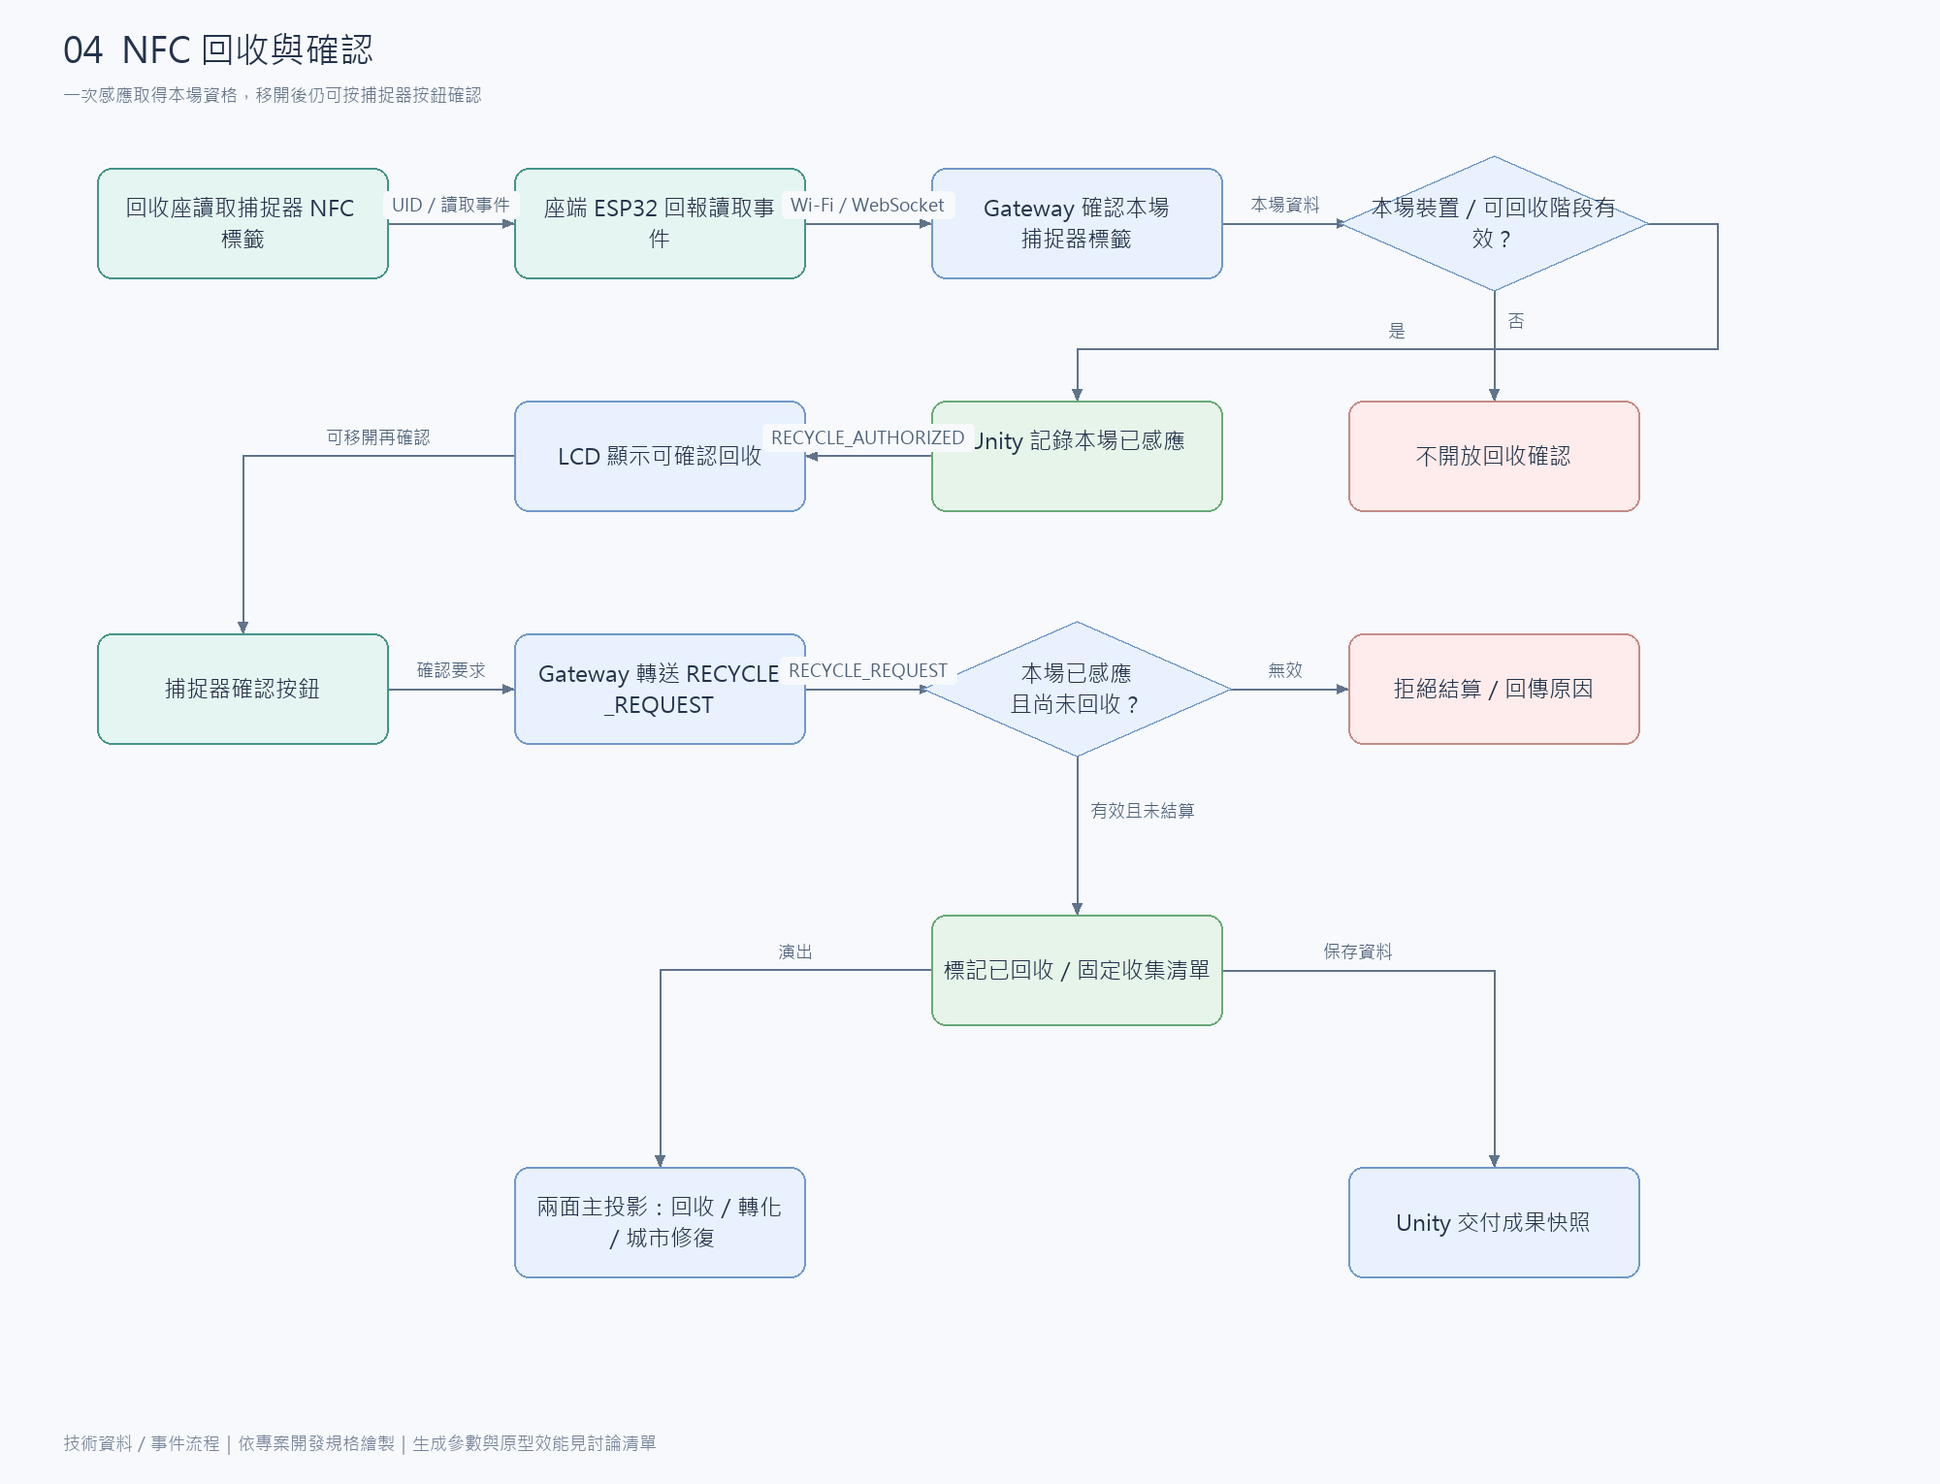
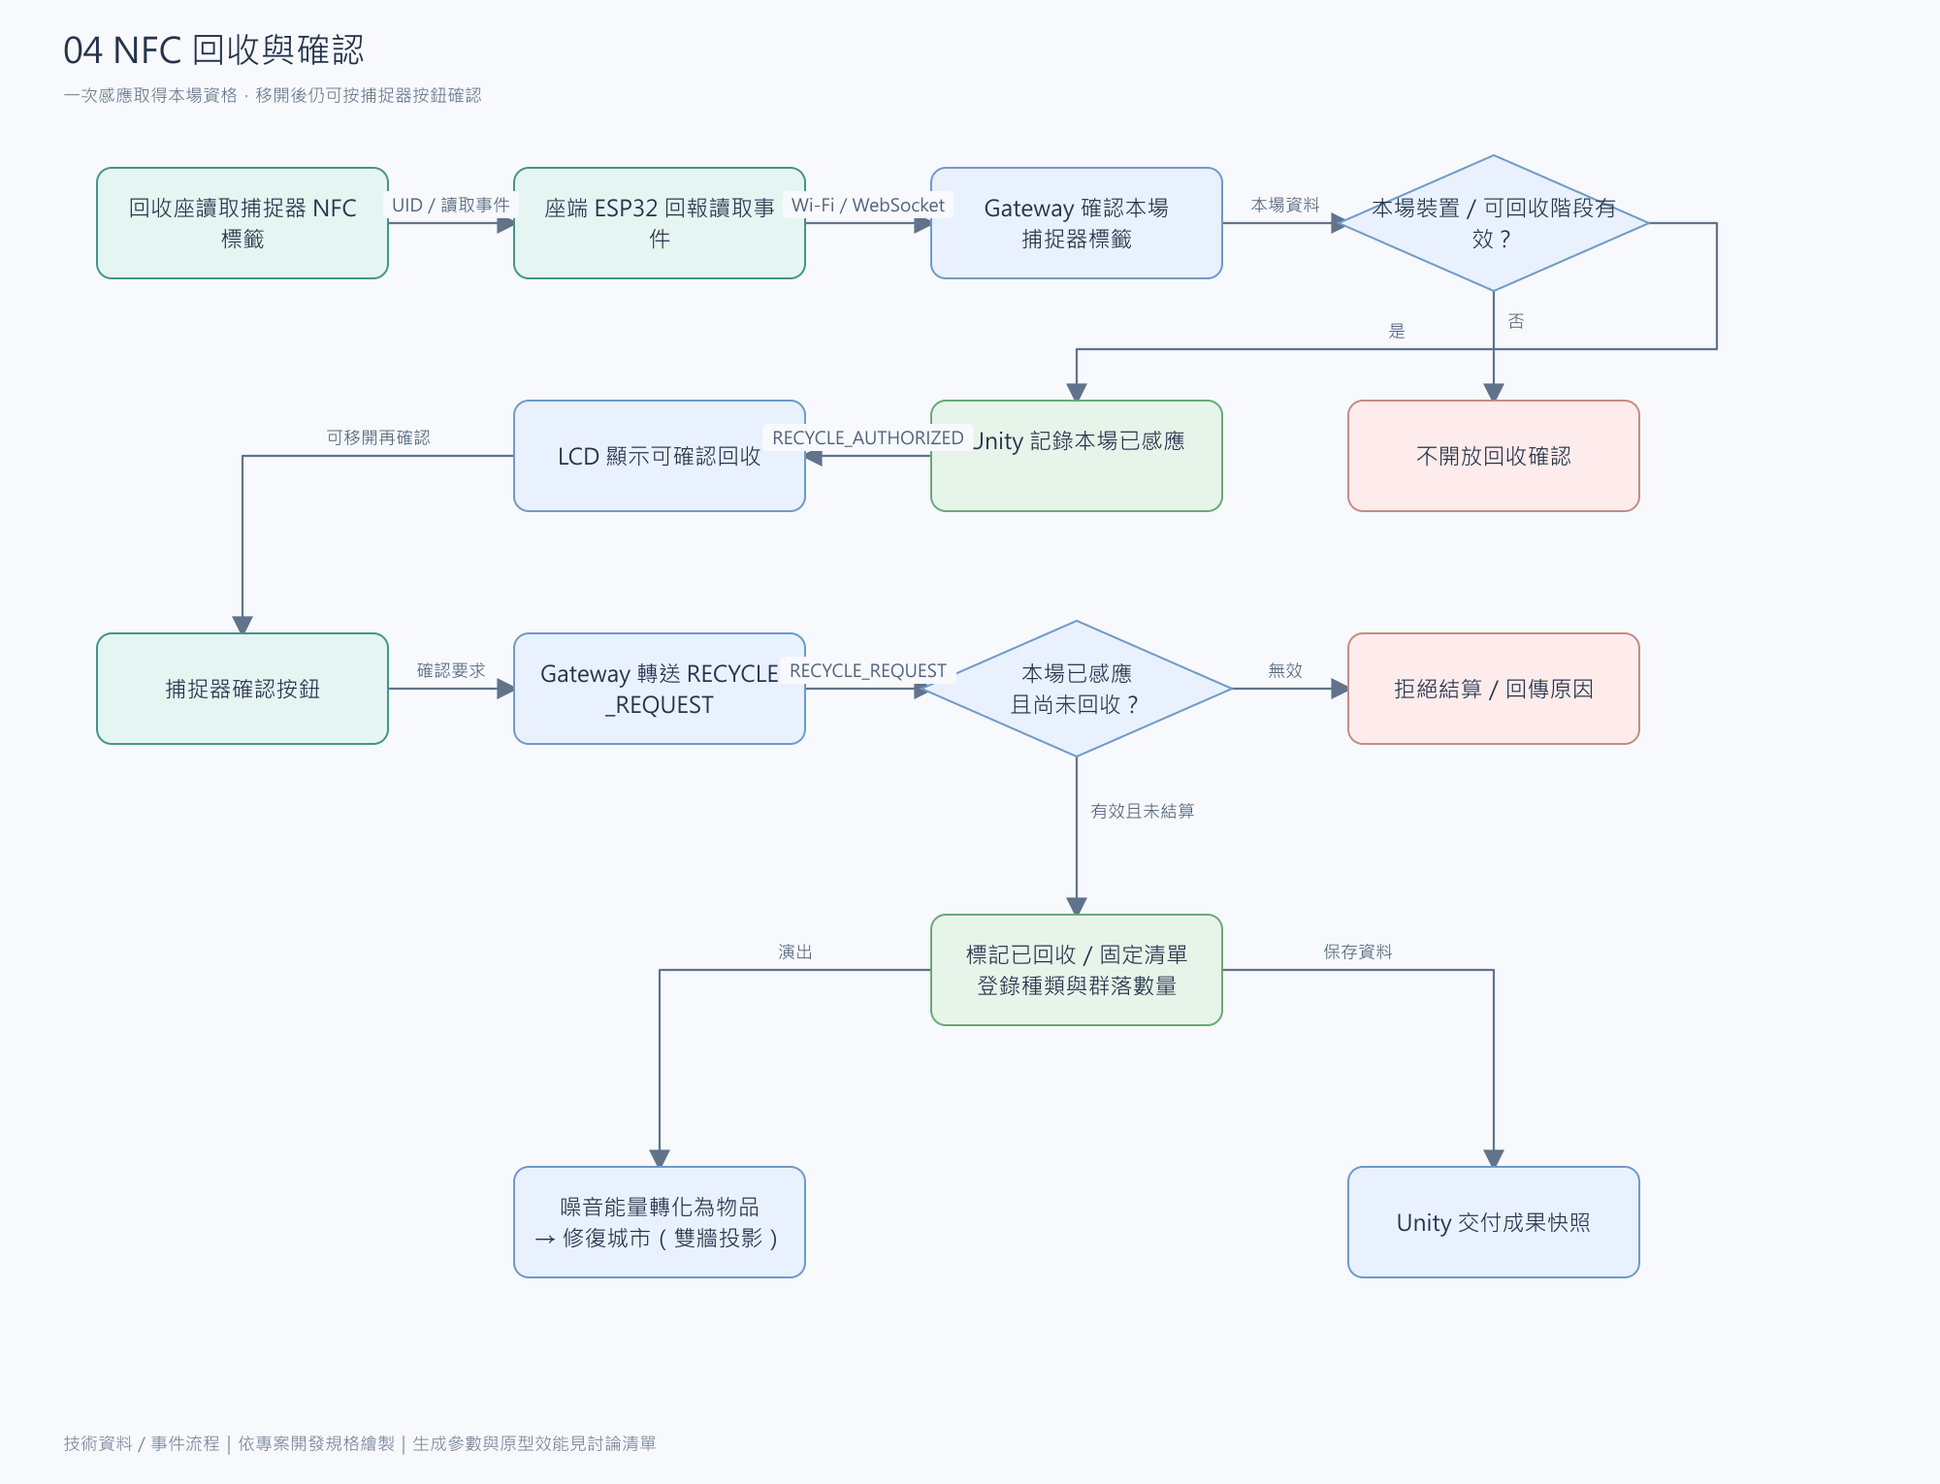
docs: 更新韌體平台

diff --git a/docs/技術架構.md b/docs/技術架構.md
@@ -2,7 +2,7 @@
 
 日期：2026-11-01
 
-版本：v1.16
+版本：v1.18
 
 用途：供組員了解作品運作方式、軟硬體分工與交付內容。本文件描述規劃架構，不代表已完成實作。
 
@@ -16,7 +16,7 @@
 
 音虫在固定點附近的小範圍快速、不規則亂動；每點附近設一顆固定紅外線發射燈。群落出現時啟用該燈，消失時停用。各燈用不同的亮暗節奏表示點位，供捕捉器辨識；投影音虫不跟著這個節奏閃爍。捕捉成功後整群消失、SAN 扣一次；音響播放代表捕捉器產生的噪音，由此促成新音虫誕生。
 
-NFC 感應成功後，系統記住本場已感應，保留到回收或本場結束；觀眾可移開捕捉器，再按其確認按鈕完成回收，由兩面主投影呈現回收、轉化與城市修復。每位完成體驗的觀眾取得線上紀念品，包含感謝信、收集摘要與個人旋律，離場後仍可開啟。
+NFC 感應成功後，系統記住本場已感應，保留到回收或本場結束；觀眾可移開捕捉器，再按其確認按鈕完成回收。系統登錄收集的種類與群落數量，由 Unity 將噪音能量轉化為物品、用於修復城市，並在兩面主投影呈現。每位完成體驗的觀眾取得線上紀念品，包含感謝信、收集摘要與個人旋律，離場後仍可開啟。
 
 ## 2. 系統連接架構
 
@@ -29,7 +29,7 @@ Unity → 本機串接服務 → 固定燈控板 → 各點紅外線燈
 
 現場麥克風 → 音訊介面 → Unity 分析 → 既有音虫擾動
 捕捉成功 → Unity 捕捉噪音事件 → 音響播放／新音虫生成控制
-捕捉器確認按鈕 → Wi-Fi／Gateway → 回收確認事件 → Unity 檢查本場已感應／可回收階段 → 結算及演出
+捕捉器確認按鈕 → Wi-Fi／Gateway → 回收確認事件 → Unity 檢查本場已感應／可回收階段 → 登錄種類／群落數量 → 能量轉化為物品 → 修復城市（雙牆投影）
 Unity 成果 → Gateway 保存／上傳 → 雲端資料與音樂素材 → Next.js 線上紀念品網頁
 ```
 
@@ -42,7 +42,7 @@ Unity 成果 → Gateway 保存／上傳 → 雲端資料與音樂素材 → Nex
 | 軟體／技術 | 用途 |
 | --- | --- |
 | Unity、C# | 音虫、捕捉、SAN、雙投影、聲音、回收與城市修復 |
-| ESP32 韌體、相機驅動 | 紅外線光點讀取、點位辨識、LCD、回收確認按鈕、震動與音效 |
+| PlatformIO、C/C++ | 開發、編譯與燒錄捕捉器、固定燈控板及 NFC 回收座韌體；整合相機、LCD、按鈕、震動與音效 |
 | 固定燈控韌體 | 輸出各點紅外線識別編碼，控制啟用／停用並回報執行狀態 |
 | Node.js、WebSocket | 本機串接服務、裝置雙向通訊、場次與成果同步 |
 | Next.js、React、TypeScript | 線上紀念品、成果 API 與本機管理頁 |
@@ -61,7 +61,7 @@ Unity 成果 → Gateway 保存／上傳 → 雲端資料與音樂素材 → Nex
 | --- | --- |
 | Windows 主機、獨顯及管理螢幕 | 執行 Unity、Gateway、音訊與管理介面 |
 | 兩面主投影、幕面與支架 | 城市場景、音虫及回收／轉化／城市修復演出 |
-| 無線捕捉器（2～3 支輪替，每場啟用 1 支） | 主板／LCD 以 Sunton 4827S043 系列、紅外線相機以 PAJ7025R3 作原型候選；搭配回收確認按鈕、震動、聲音與電池 |
+| 無線捕捉器（2～3 支輪替，每場啟用 1 支） | 主板／LCD 以 Sunton 4827S043 系列、紅外線相機以 PAJ7025R3 作原型候選；搭配回收確認按鈕、震動、聲音與內建充電電池；行動電源僅作充電來源 |
 | 各點紅外線燈、驅動及固定燈控板 | 對應音虫出現點的光學訊號 |
 | NFC 回收座 | 捕捉器貼被動式標籤，座端讀取器與 ESP32 回報感應；演出由兩面主投影呈現 |
 | 分享器、主機有線網路及外網 | 本地互動與雲端成果同步 |
@@ -85,7 +85,7 @@ Unity 成果 → Gateway 保存／上傳 → 雲端資料與音樂素材 → Nex
 | 聆聽與發聲 | 預製城市聲音引導探索；麥克風經音訊介面送入 Unity，分析音量與持續時間，觸發既有音虫在固定小範圍內的擾動 |
 | 捕捉回饋 | 成功後整群收走、扣一次 SAN 並震動；音響播放代表捕捉器產生的噪音，該事件促使新音虫誕生 |
 | NFC 到站 | 座端讀取捕捉器標籤，經 ESP32、Gateway 傳給 Unity，記錄本場已感應；移開後仍保留，到本場回收或結束時清除 |
-| 回收與修復 | 感應後可移開，再按捕捉器確認按鈕；Unity 檢查已感應且尚未回收，結算後標記已回收，並由兩面主投影播放回收、轉化與城市修復 |
+| 回收與修復 | 感應後可移開，再按捕捉器確認按鈕；Unity 檢查已感應且尚未回收，結算後標記已回收、登錄種類與群落數量；Unity 控制噪音能量轉化為物品、修復城市，並由兩面主投影呈現 |
 | 線上紀念品 | Next.js 顯示感謝信、收集摘要與個人旋律，成果連結可離場重開 |
 | 實體列印（選配） | 列印紀念品及同一成果 QR Code，線上成果不依賴列印設備 |
 
@@ -97,7 +97,7 @@ Unity 成果 → Gateway 保存／上傳 → 雲端資料與音樂素材 → Nex
 
 | 項目 | 交付內容 |
 | --- | --- |
-| 城市與雙牆畫面 | 各牆比例、場景、接縫與固定出現點 |
+| 城市與雙牆畫面 | 各牆比例、場景、接縫、固定出現點，以及能量轉化物品與城市修復動畫 |
 | 音虫 | 種類、群落外觀、固定小範圍內快速不規則運動、出現／消失及捕捉動畫 |
 | 實體安裝 | 發射燈固定、走線、捕捉器外殼與 NFC 感應位置 |
 | 捕捉器 UI | SAN、搜尋、鎖定、捕捉進度、成功、失效、電量及回收確認提示 |

diff --git a/docs/器材清單.md b/docs/器材清單.md
@@ -29,7 +29,7 @@
 
 ## 2. 無線捕捉器
 
-以下數量為**一支原型**，不另外重複購買整套捕捉器。
+以下數量為**一支原型**，不另外重複購買整套捕捉器。捕捉器、固定燈控板及 NFC 回收座均以 PlatformIO 開發韌體。
 
 | 器材／候選型號 | 原型數量 | 用途／配置 | 參考單價 | 台灣來源／資訊 |
 | --- | --- | --- | --- | --- |
@@ -40,12 +40,13 @@
 | 1030 扁平震動馬達 | 1 個 | 搭配驅動板，不由 GPIO 直接供電 | NT$19 | [樂意創客商品](https://shopee.tw/product/139069730/2596961902)，附發票 |
 | MAX98357 I²S 音訊放大模組 | 1 片 | 裝置操作提示音輸出 | NT$140 | [樂意創客商品](https://shopee.tw/product/139069730/16267784032)，附發票 |
 | 小型喇叭，8 Ω／1 W 為候選規格 | 1 個 | 與音訊放大板搭配，限制輸出功率 | — | [樂意創客賣場搜尋](https://shopee.tw/mirotek?keyword=喇叭) |
-| Xiaomi 自帶線行動電源 10000 口袋版，P15ZM | 1 個 | 原型透過 USB 供電，隨捕捉器攜帶 | NT$549（官網列表標價） | [小米台灣商品](https://www.mi.com/tw/product/xiaomi-power-bank-10000mah-integrated-cable/)，依結帳頁填寫發票資訊 |
+| 內建充電電池 | 1 組 | 供捕捉器離線纜使用，依整機耗電與外殼空間選容量及尺寸 | — | 電池選型見[待確認與驗證清單](待確認與驗證清單.md) |
+| 電池充電、保護及電源轉換電路 | 1 組 | 為內建電池充電，並提供主板及各模組所需電壓；主板已整合的功能不重複計價 | — | 依電池與主板選型配置 |
 | 被動式 NFC 貼紙，NTAG213 為候選 | 1 枚 | 貼在捕捉器，標籤 UID 對應設備編號，不需供電 | — | [樂意創客賣場搜尋](https://shopee.tw/mirotek?keyword=NFC)：另列用量，不假設 PN532 套件附送貼紙 |
 | 相機轉接板、接頭及內部配線 | 1 組 | 連接相機、按鈕、震動、音效與電源 | — | 依最終接腳配置製作；線材見第 5 部分 |
 | 外殼、相機固定件與握持結構 | 1 組 | 固定鏡頭方向、LCD、按鈕與標籤，保留維修空間 | — | 自製／3D 列印 |
 
-主板與 LCD 合併計價；4827／480×272 與其他 4.3 吋 800×480 商品不是同一板型。上表先採 USB 行動電源，內建鋰電池方案不重複計入。故事中的「捕捉器噪音」由展場音響播放，與裝置提示音分開。
+主板與 LCD 合併計價；4827／480×272 與其他 4.3 吋 800×480 商品不是同一板型。捕捉器採內建充電電池，行動電源僅於充電時接上，不納入機身。故事中的「捕捉器噪音」由展場音響播放，與裝置提示音分開。
 
 ## 3. 固定紅外線發射與燈控
 
@@ -68,7 +69,7 @@
 | 固定 USB 供電、接頭及配線 | 1 組 | 供應讀取器及控制板 | — | 配合模組接頭配置 |
 | 回收座外殼及感應面標示 | 1 組 | 引導捕捉器靠近，保留天線與維修空間 | — | 自製／3D 列印 |
 
-燈控板與回收座各一片 XIAO，合計 **2 片**。捕捉器 NFC 標籤已列於第 2 部分，不重複計價。感應一次後可移開，再按捕捉器確認按鈕回收；資格保留至本場回收或結束。回收、轉化及城市修復由兩面主投影呈現。
+燈控板與回收座各一片 XIAO，合計 **2 片**。捕捉器 NFC 標籤已列於第 2 部分，不重複計價。感應一次後可移開，再按捕捉器確認按鈕回收；資格保留至本場回收或結束。回收時由系統登錄種類與群落數量，Unity 控制噪音能量轉化為物品、修復城市，由兩面主投影呈現。
 
 ## 5. 聲音、電源與共用製作工具
 
@@ -77,6 +78,7 @@
 | 麥克風與固定架 | 依收音配置 | 收觀眾聲音，送入 Unity 擾動既有音虫 | — | 先盤點現有／可借設備 |
 | 音訊介面 | 1 組 | 輸入／輸出數配合麥克風與現場播放設備 | — | 先盤點現有／可借設備 |
 | 現場喇叭、功放及音訊線 | 依聲場配置 | 播放城市聲音、互動回饋與捕捉器噪音 | — | 先盤點現有／可借設備 |
+| Xiaomi 自帶線行動電源 10000 口袋版，P15ZM | 共用選配 1 個 | 作 USB 充電來源，不裝入捕捉器，可使用既有充電器替代 | NT$549（官網列表標價） | [小米台灣商品](https://www.mi.com/tw/product/xiaomi-power-bank-10000mah-integrated-cable/) |
 | USB 傳輸／燒錄線與充電器 | 原型配合 3 片控制板 | 燒錄、燈控通訊及充電，使用可傳資料的線材 | — | [環島科技賣場搜尋](https://shopee.tw/angel__wei?keyword=USB) |
 | 400 孔麵包板 | 先備 3 片 | 捕捉器、燈控與回收座桌面接線測試 | NT$40 | [樂意創客商品](https://shopee.tw/product/139069730/2122942751) |
 | 杜邦線 10 條裝，公公／公母／母母 | 各 1 包，共 3 包 | 短距離原型接線；牆面延伸線另配 | NT$10 起／包 | [樂意創客商品](https://shopee.tw/product/139069730/2119543348)，不同長度／接頭依選項價格 |

diff --git a/docs/技術流程圖.md b/docs/技術流程圖.md
@@ -66,7 +66,7 @@ flowchart LR
 
 </details>
 
-捕捉器方塊包含紅外線接收相機與韌體；Sunton 4827S043 系列為主板／LCD 的原型候選。圖中的 NFC 回收座經讀取器取得捕捉器被動式標籤，並非遠距定位音虫。
+捕捉器方塊包含紅外線接收相機與韌體；Sunton 4827S043 系列為主板／LCD 的原型候選。圖中的 NFC 回收座經讀取器取得捕捉器被動式標籤，並非遠距定位音虫。捕捉器、燈控板與回收座韌體均以 PlatformIO 開發。
 
 ## 2. 自動捕捉判定
 
@@ -166,7 +166,7 @@ flowchart LR
 
 ## 4. NFC 回收與確認
 
-從左上讀取 NFC 標籤開始，Unity 記錄本場已感應，LCD 提示可按確認；往下接捕捉器按鈕送出的 RECYCLE_REQUEST（回收確認要求），檢查通過後才結算。NFC 感應本身不會立即回收。
+從左上讀取 NFC 標籤開始，Unity 記錄本場已感應，LCD 提示可按確認；往下接捕捉器按鈕送出的 RECYCLE_REQUEST（回收確認要求），檢查通過後才結算、登錄種類與群落數量，再由 Unity 控制能量轉化為物品及城市修復，呈現於兩面主投影。NFC 感應本身不會立即回收。
 
 ![NFC 回收與確認](assets/技術流程圖/04.png)
 
@@ -188,8 +188,8 @@ flowchart LR
   recycleRequest["Gateway 轉送 RECYCLE_REQUEST"]
   validateAuthorization{"本場已感應且尚未回收？"}
   rejectRequest["拒絕結算／回傳原因"]
-  commitRecycle["標記已回收／固定收集清單"]
-  repairDisplay["兩面主投影：回收／轉化／城市修復"]
+  commitRecycle["標記已回收／登錄種類與群落數量"]
+  repairDisplay["能量轉化為物品 → 修復城市（雙牆投影）"]
   resultSnapshot["Unity 交付成果快照"]
   tagRead --> seatReport --> deviceMap --> checkPresence
   checkPresence -->|"否"| rejectRead

diff --git a/docs/待確認與驗證清單.md b/docs/待確認與驗證清單.md
@@ -24,11 +24,11 @@
 - [ ] 捕捉器的畫面設計、頁面切換與選單操作如何安排？
 - [ ] 除 SAN 與捕捉進度，是否需要收藏總覽、音虫詳細卡片？
 - [ ] **板卡驗證：**以 ESP32-4827S043C 為候選，核對尺寸、剩餘接腳及顯示驅動；確認 PAJ7025R3 樣品所需轉接板、供電與訊號電壓，驗證相機、回收按鈕、I²C 震動驅動及 I²S 音效能否同時運作，再定外殼；確認指定主板與相機的台灣供貨。
-- [ ] **續航與供電測試：**整機能否達約 2 小時目標？驗證行動電源持續輸出；若改內建電池，確認升壓板輸出電壓與峰值電流符合主板、相機及音效需求，再決定電池、備機與充電輪替。
+- [ ] **續航與機構測試：**內建電池的容量、尺寸及固定方式為何？確認充電、保護及電源轉換電路符合主板、相機及音效的電壓／峰值電流需求，檢查充電溫升與接線空間，並測試整機能否達約 2 小時目標，再決定備機與充電輪替。
 
 ## 4. 回收與紀念品
 
-- [ ] 回收、轉化與城市修復的具體畫面、音效及演出時長？
+- [ ] 依收集種類／群落數量，噪音能量會轉成哪些物品、物品如何對應城市修復？具體動畫、音效與演出時長為何？
 - [ ] 各音虫聲部的實際音色、素材與組合效果如何設計？同種類重複捕捉是否影響旋律編排？
 - [ ] 成果 QR 顯示在哪裡、停留多久？長期保存所需的服務預算、保存政策及展後維護由誰負責？
 - [ ] 是否啟用選配的實體列印？設備／紙材預算為何？

diff --git a/docs/重要連結.md b/docs/重要連結.md
@@ -62,6 +62,8 @@
 
 - [ESP32-S3-DevKitC-1 官方開發板](https://www.espressif.com/en/products/devkits/esp32-s3-series/esp32-s3-devkitc-1)：ESP32-S3 通用開發板的硬體資料參考。
 - [ESP32 Arduino 開發文件](https://docs.espressif.com/projects/arduino-esp32/en/latest/)：韌體入門、函式庫與範例。
+- [PlatformIO IDE 官方說明](https://docs.platformio.org/en/latest/integration/ide/vscode.html)：韌體開發、編譯、燒錄與序列監控。
+- [PlatformIO 專案設定 platformio.ini](https://docs.platformio.org/en/latest/projectconf/index.html)：捕捉器、燈控及回收座分別保存板卡、框架、依賴及燒錄設定。
 - [PlatformIO ESP32-S3 板卡設定](https://docs.platformio.org/en/latest/boards/espressif32/esp32-s3-devkitc-1.html)：編譯、燒錄及除錯；設定須對應實際板卡版本。
 - [ESP32-S3 SPI 驅動](https://docs.espressif.com/projects/esp-idf/en/stable/esp32s3/api-reference/peripherals/spi_master.html)：連接紅外線相機與其他 SPI 裝置。
 - [ESP32-S3 SPI LCD](https://docs.espressif.com/projects/esp-idf/en/stable/esp32s3/api-reference/peripherals/lcd/spi_lcd.html)：LCD 連接與畫面更新。
